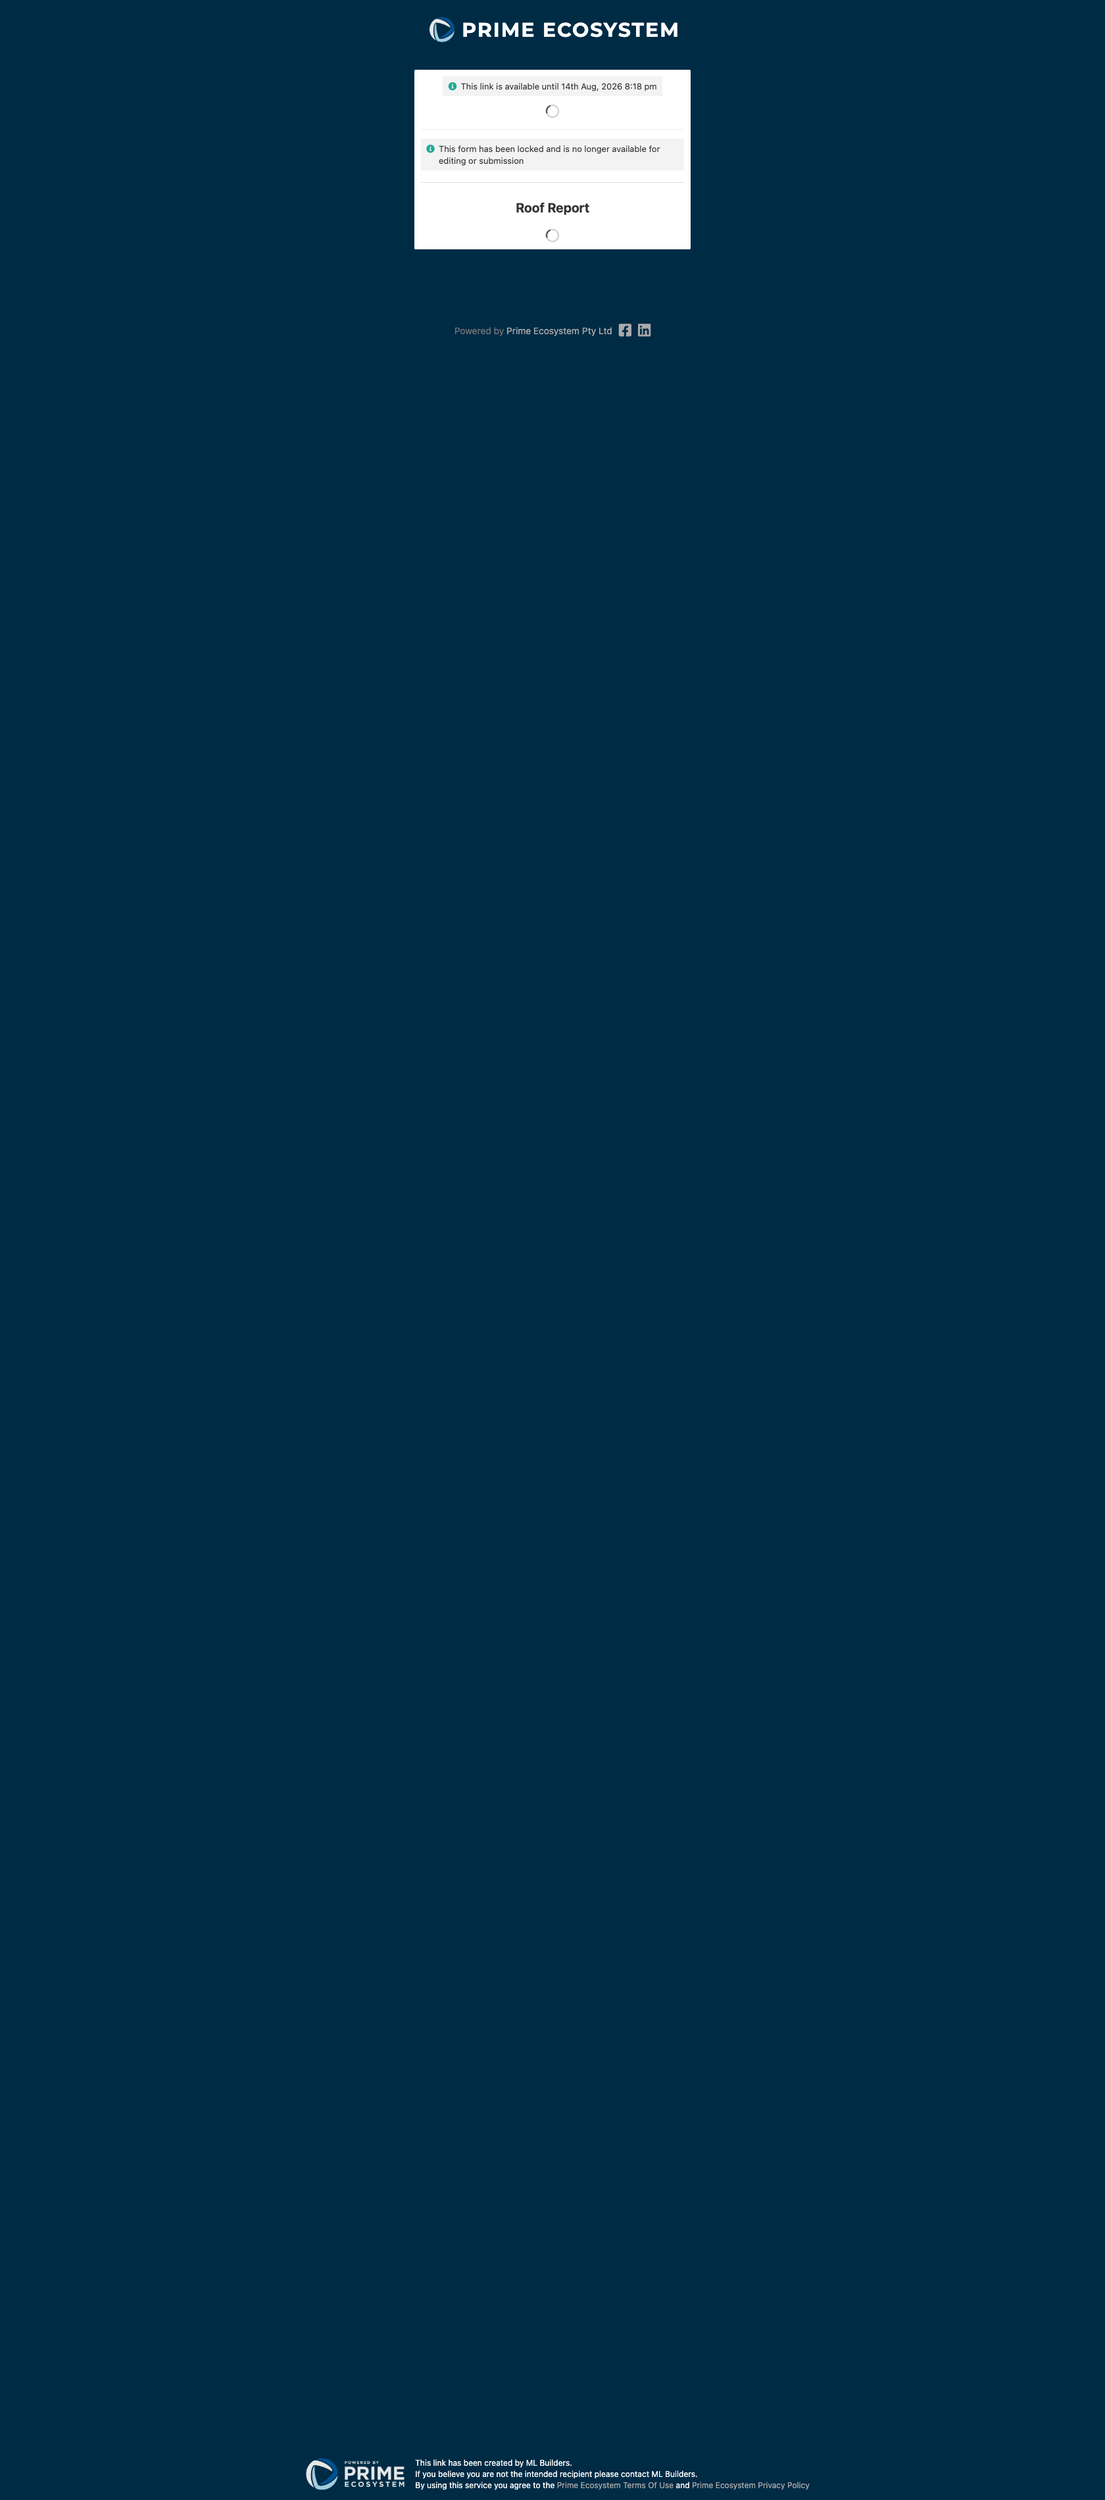
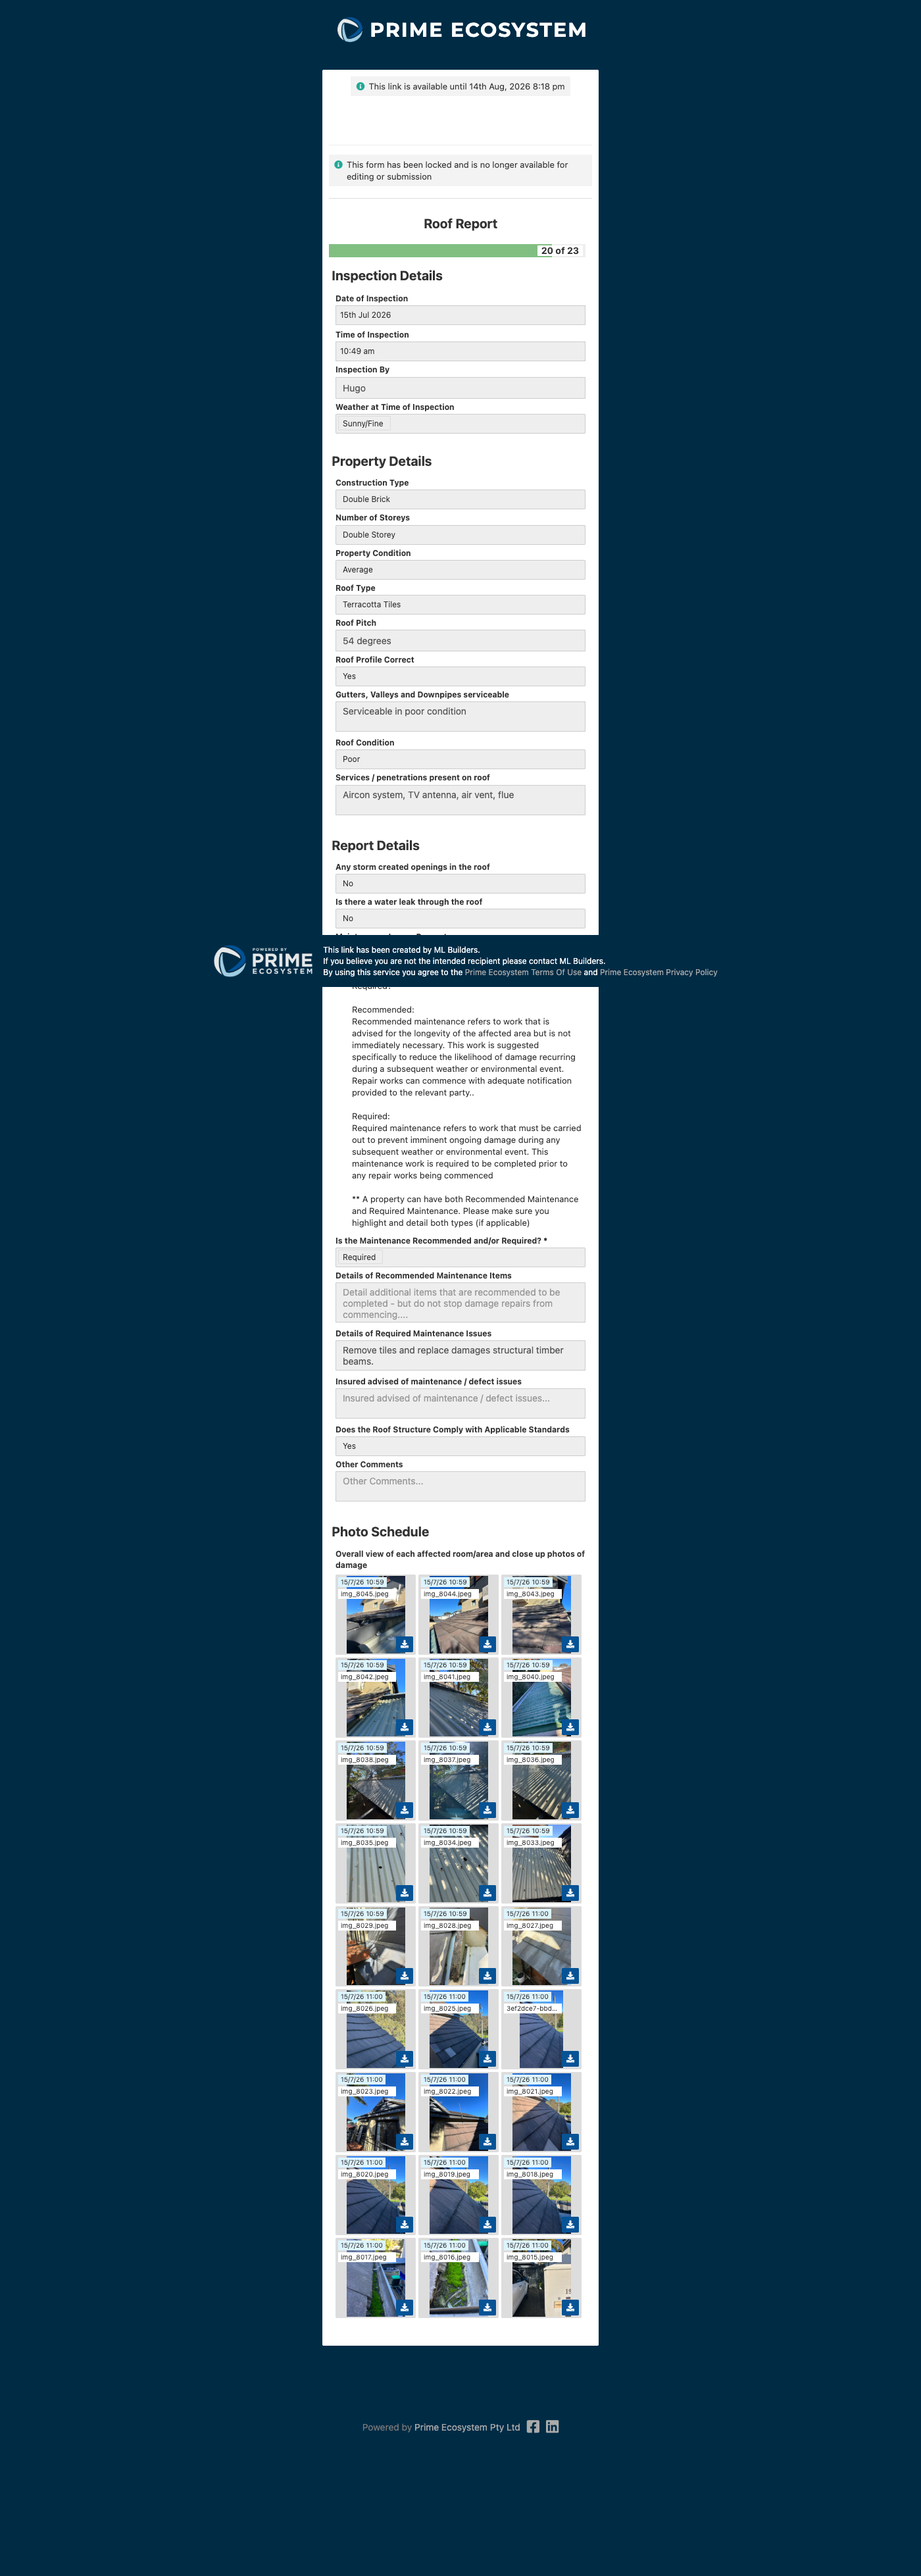
fix(ops): replace pair PNGs with real Primeeco pages (in-page PII blank)
Captain hold: SWMS-261081 was an F7 observation assertion card, not Primeeco.
Re-open live share URLs, blank prime-object-summary only, screenshot Prime UI
with locked banner + filled roof report. Replace all three green-pair images.

Changed region(s): [[0.3379, 0.0, 0.6757, 0.9316], [0.3686, 0.9626, 0.7371, 1.0], [0.2764, 0.9626, 0.3686, 1.0]]

diff --git a/data/roof-report-portal-pairs-v1/report.md b/data/roof-report-portal-pairs-v1/report.md
@@ -35,15 +35,16 @@ What you are approving on each pair: **the portal is locked/submitted** (screens
 ## What this run did
 
 1. **Census:** Management API read-only list of `roof_report` family board cards with `primeeco.tech/share/` links (61+ rows; 74 share URLs after expand). Excluded owned/forbidden suburbs and job numbers from the brief.
-2. **Portal observation:** `chrome-devtools-axi` open → classify locked/submitted vs expired vs open form. Screenshot only when locked/submitted.
-3. **Mint path (SES-native only):**  
+2. **Portal observation:** `chrome-devtools-axi` open live `primeeco.tech/share/…` URLs → classify locked/submitted vs expired vs open form. Screenshot only when locked/submitted.
+3. **Screenshot honesty (Captain hold 2026-08-06):** Pair PNGs must be **Primeeco’s own UI** (locked banner + filled roof report), not F7’s opaque “Prime portal observation” assertion card. Client PII is redacted **in the live page** before capture by blanking `prime-object-summary` only — no SecureWorks overlay covering the form. SWMS-261081 was wrongly replaced once with an F7 evidence frame; all three green-pair screenshots were re-captured as real Prime pages.
+4. **Mint path (SES-native only):**  
    `mark_makesafe_portal_report_done` (portal-truth stamp for current cycle) →  
    `prepare_ses_docket_revision` →  
    `prepare_ses_invoice_obligation` →  
    `create_ses_invoice_draft` (**full live ACCREC** scan before create).  
    Legacy `create_makesafe_draft_invoice` is retired (HTTP 410) and was not used.
-4. **Invoice PDFs:** `get_invoice_pdf` (sealed-money **read** exemption; operator api_key). PDF bytes stored under `invoices/`; base64 stripped from proof JSON.
-5. **SWMS-261081 only:** scoped `makesafe_state_seed_scoped` (cycle bind; spine already complete) + F7 `record_ses_portal_capture_evidence` so U4 could see portal capture for the current cycle. No stage/money authorise/send.
+5. **Invoice PDFs:** `get_invoice_pdf` (sealed-money **read** exemption; operator api_key). PDF bytes stored under `invoices/`; base64 stripped from proof JSON.
+6. **SWMS-261081 only (ledger, not the pair PNG):** scoped `makesafe_state_seed_scoped` (cycle bind) + F7 capture **revision** for U4. The Captain pair screenshot is a separate real-Prime capture, not the F7 observation frame.
 
 ---
 
@@ -55,8 +56,8 @@ What you are approving on each pair: **the portal is locked/submitted** (screens
 |---|---|
 | Family | `roof_report` / ordinary roof portal |
 | Storeys | double (invoice line: double-storey roof report) |
-| Portal | Locked: “This form has been locked and is no longer available for editing or submission” |
-| Portal screenshot | `data/roof-report-portal-pairs-v1/screenshots/SWMS-26980-portal.png` |
+| Portal | Live Primeeco page: locked banner + filled Roof Report (20 of 23). Job-details panel blanked in-page before capture. |
+| Portal screenshot | `data/roof-report-portal-pairs-v1/screenshots/SWMS-26980-portal.png` (real Prime UI, not F7 frame) |
 | Invoice | **INV-1015** DRAFT **$385.00** (pre-existing; not reminted) |
 | Invoice PDF | `data/roof-report-portal-pairs-v1/invoices/SWMS-26980-INV-1015.pdf` |
 | Sibling note | Separate Gwelup card holds a different PO (`…PO-56773` AUTHORISED). This card’s own PO-scoped DRAFT is clean. |
@@ -68,8 +69,8 @@ What you are approving on each pair: **the portal is locked/submitted** (screens
 |---|---|
 | Family | `roof_report` / ordinary roof portal |
 | Storeys | double → **$350 ex / $385 inc** fixed roof schedule |
-| Portal | Locked (live + prior capture ledger `done`) |
-| Portal screenshot | `data/roof-report-portal-pairs-v1/screenshots/SWMS-261114-portal.png` |
+| Portal | Live Primeeco page: locked banner + filled Roof Report (24 of 24). Job-details panel blanked in-page (no customer/site block in the PNG). |
+| Portal screenshot | `data/roof-report-portal-pairs-v1/screenshots/SWMS-261114-portal.png` (real Prime UI) |
 | Portal stamp | `mark_makesafe_portal_report_done` → `portal_verified_cycle=2` |
 | Docket | `prepare_ses_docket_revision` ready (`dry_run` then live) |
 | Obligation | new revision `ddcd08aa-…` superseding stuck prior revision |
@@ -85,8 +86,8 @@ What you are approving on each pair: **the portal is locked/submitted** (screens
 | Family | `roof_report` / ordinary roof portal |
 | Identity grain | `MLB:PO-56960` (intake); invoice reference `MLB-27100` |
 | Storeys | double → **$350 ex / $385 inc** |
-| Portal | Locked live |
-| Portal screenshot | `data/roof-report-portal-pairs-v1/screenshots/SWMS-261081-portal.png` (F7 evidence-frame capture) |
+| Portal | Live Primeeco page: locked banner + filled Roof Report (21 of 23). Job-details panel blanked in-page. |
+| Portal screenshot | `data/roof-report-portal-pairs-v1/screenshots/SWMS-261081-portal.png` (**real Prime UI** — earlier F7 observation frame discarded) |
 | Portal stamp | `mark_makesafe_portal_report_done` → cycle 1 verified |
 | Cycle bind | `makesafe_state_seed_scoped` run_key `roof-report-portal-pairs-v1-261081-seed` → attendance cycle created + bound (`attendance_cycles_created: 1`) |
 | Portal capture ledger | F7 observer `--commit` → `submitted_locked` **written** (1 production evidence write; 0 stage moves) |
